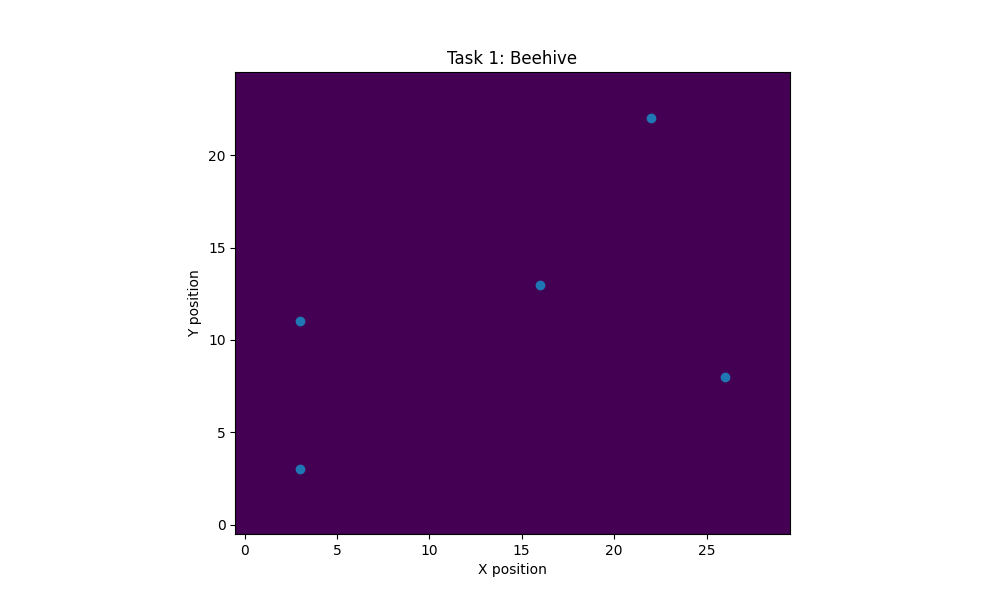
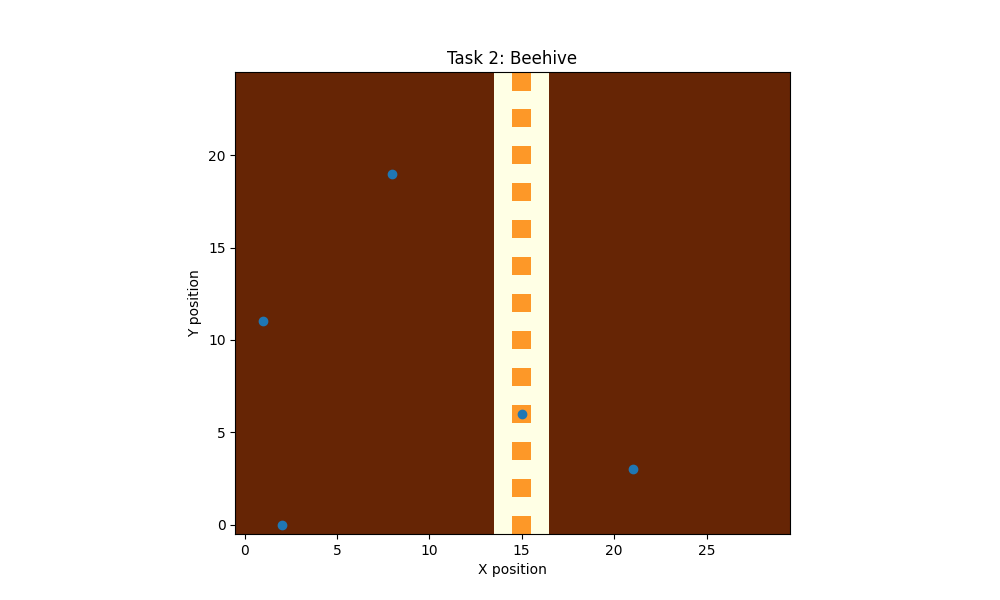
d

diff --git a/PracTest3/task2.py b/PracTest3/task2.py
@@ -1,9 +1,9 @@
 # Student Name: Thejana Kottawatta Hewage
 # Student ID:   22307822
 #
-# task2.py - 
+# task2.py - Plot a more complex bee hive
 #
-# Version information: 11/04//2025 - Final version
+# Version information: 12/04//2025 - Final version
 #
 # Usage: <how to run the program>
 #
@@ -12,43 +12,69 @@ import random
 import numpy as np
 from buzzness import Bee
 
-def plot_hive(hive, blist, ax):
-    xvalues = [b.get_pos()[0] for b in blist if b.get_inhive()]
-    yvalues = [b.get_pos()[1] for b in blist if b.get_inhive()]
-    ax.imshow(hive.T, origin="lower", cmap='YlOrBr') ## (a) update the colour map 
-    ax.scatter(xvalues, yvalues)
-
 simlength = 1
 hiveX = 30
 hiveY = 25
 hive = np.zeros((hiveX,hiveY))
+ready_for_honey = 10
+# generate 5 bees. 
+blist = [Bee(f"b{i+1}", (np.random.randint(0, hiveX), np.random.randint(0, hiveY))) for i in range(5)] # for loop for generating 5 bees 
 
-## (c) Create 5 bees and append to the blist. 
-blist = [Bee(f"b{i+1}", (np.random.randint(0, hiveX), np.random.randint(0, hiveY))) for i in range(5)]
+def plot_hive(hive, blist, ax):
+    ## (b) readiness for honey
+
+    if ready_for_honey == 10:
+        hive[:, :] = 10
+    else:
+        hive[:, :] = 10 - ready_for_honey # 10 is brown, not ready, 0 is ready
+    
+    ## (c) Stripe of comb in the centre. 
+    stripe_center = hiveX // 2 # Since, we are working with arrays, floats cannot be used in slicing. Thus, division with remainder.
+    hive[int(stripe_center - 1): int(stripe_center+2), :] = 0 # Make the stripe white with the colour map. 
+
+    for j in range(hiveY):
+        if j % 2 == 0: # Even squares are yellow. 
+            hive[int(stripe_center), j] = 5 # 5 is the yellow in the colourmap
+    
+    # x and y positions of the bees. 
+    xvalues = [b.get_pos()[0] for b in blist if b.get_inhive()] # list of x coordinates only if inhive = True
+    yvalues = [b.get_pos()[1] for b in blist if b.get_inhive()]
+    ax.imshow(hive.T, origin="lower", cmap='YlOrBr', vmin=0, vmax=10) # colour map for the hive.
+    ax.scatter(xvalues, yvalues)
+
+# Run the simulation. 
 for t in range(simlength):
     for b in blist:
         b.step_change()
-    fig, axes = plt.subplots(1, 1, figsize=(10,6))
+    fig, axes = plt.subplots(1, 2, figsize=(15,6)) # 1 row with 2 columns sup fig
+    
+    ## (e) Plot a duplicate of the plot in the 2nd column and add a supertitle. 
+    
+    fig.suptitle('BEE WORLD', fontsize=15, fontweight='bold')
+    plot_hive(hive, blist, axes[0])
+    axes[0].set_title('Bee Hive')
+    axes[0].set_xlabel("X position")
+    axes[0].set_ylabel("Y position")
 
-    plot_hive(hive, blist, axes)
-    ## (e) Update the plt title, xlabel, ylabel to describe the plot. 
-    plt.xlabel("X position")
-    plt.ylabel("Y position")
-    plt.title('Task 1: Beehive')
+    plot_hive(hive, blist, axes[1]) # the duplicate
+    axes[1].set_title('Bee Hive')
+    axes[1].set_xlabel("X position")
+    axes[1].set_ylabel("Y position")
+
     plt.show()
     #plt.pause(1)
     #plt.clf()
-# Save fig 1. 
-fig.savefig('task1.png')
- 
+fig.savefig('task2.png')
+
 
 # hive will range between 0 and 10
 # 10 is brown, not ready
 # 0 is ready
 # 1-5 is honey level
-hive = np.zeros((hiveX,hiveY))
 
 #plt.ion()
+
+## (c) Update the plot to 
 
 
 

diff --git a/PracTest3/task1.py b/PracTest3/task1.py
@@ -12,16 +12,16 @@ import random
 import numpy as np
 from buzzness import Bee
 
+simlength = 1
+hiveX = 30
+hiveY = 25
+hive = np.zeros((hiveX,hiveY))
+
 def plot_hive(hive, blist, ax):
     xvalues = [b.get_pos()[0] for b in blist if b.get_inhive()]
     yvalues = [b.get_pos()[1] for b in blist if b.get_inhive()]
     ax.imshow(hive.T, origin="lower") 
     ax.scatter(xvalues, yvalues)
-
-simlength = 1
-hiveX = 30
-hiveY = 25
-hive = np.zeros((hiveX,hiveY))
 
 ## (c) Create 5 bees and append to the blist. 
 blist = [Bee(f"b{i+1}", (np.random.randint(0, hiveX), np.random.randint(0, hiveY))) for i in range(5)]
